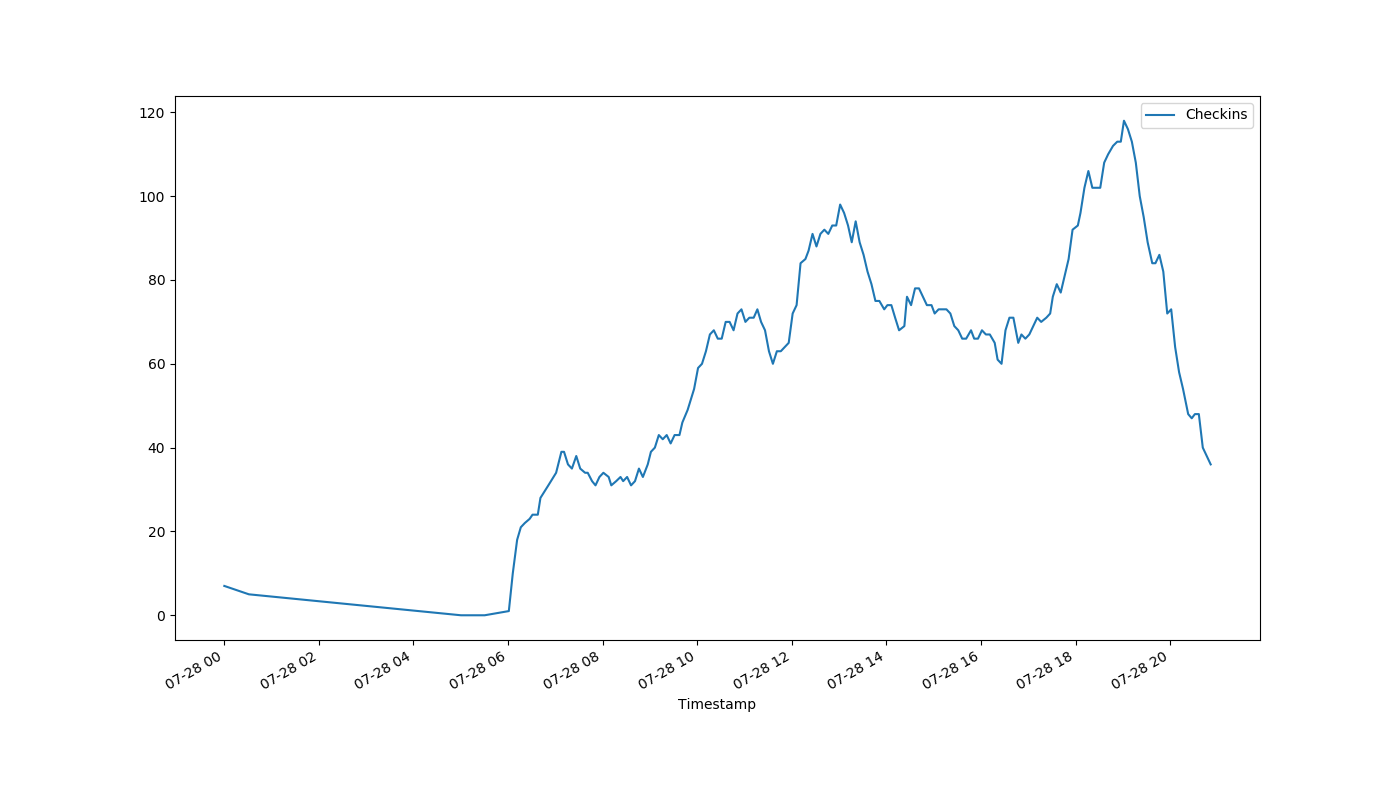
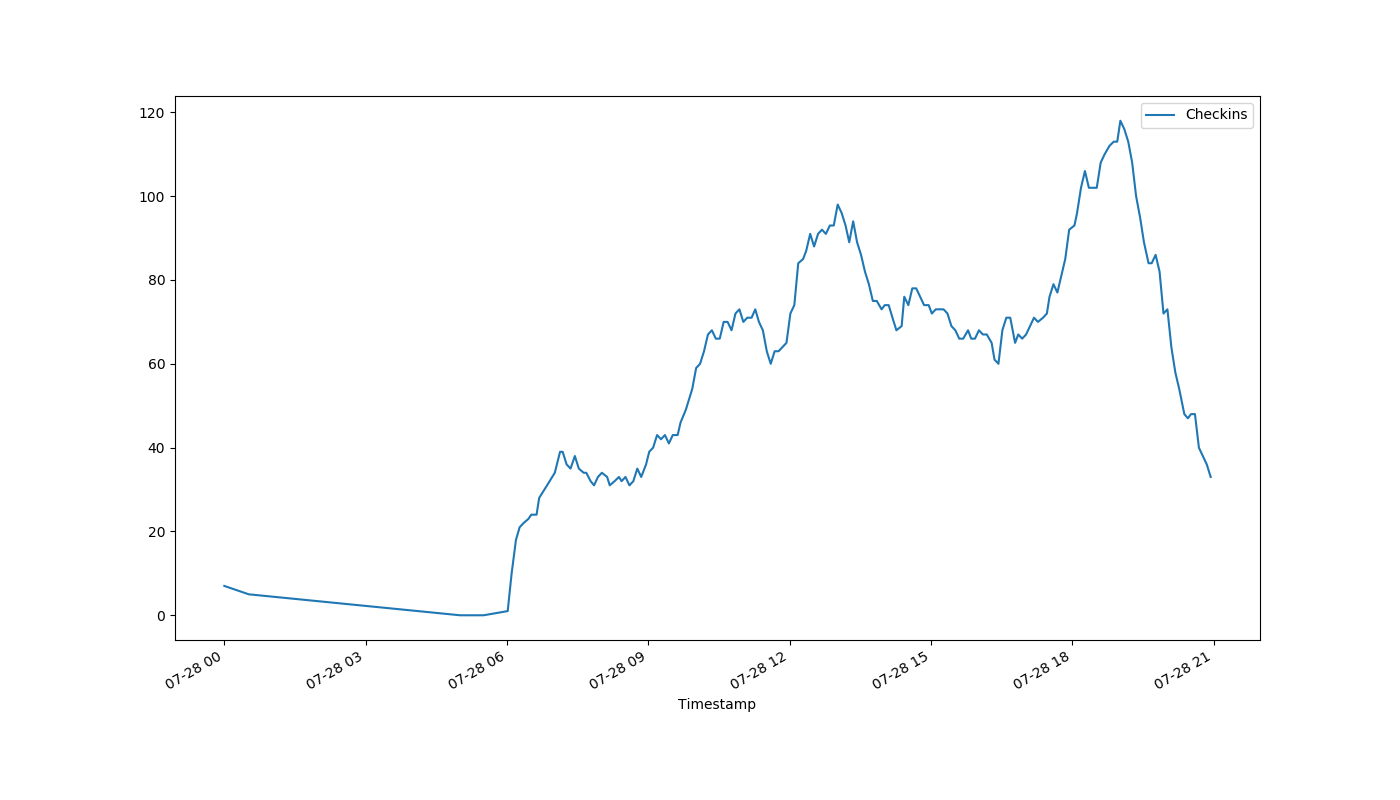
auto-Jul-28-20:58:49

diff --git a/index.html b/index.html
@@ -1,1 +1,1 @@
-<!DOCTYPE html><html><head><meta http-equiv="refresh" content="30"><link rel='stylesheet' href='holmcurrent.css'></head><body><p id='count'>36</p><div id='graph-wrap'><img id='graph' src='holmgraph-Jul-28.png'></div><p id='updated'>Last updated 20:52:02 / 20:51:17</p></body></html>
+<!DOCTYPE html><html><head><meta http-equiv="refresh" content="30"><link rel='stylesheet' href='holmcurrent.css'></head><body><p id='count'>33</p><div id='graph-wrap'><img id='graph' src='holmgraph-Jul-28.png'></div><p id='updated'>Last updated 20:57:03 / 20:56:17</p></body></html>
